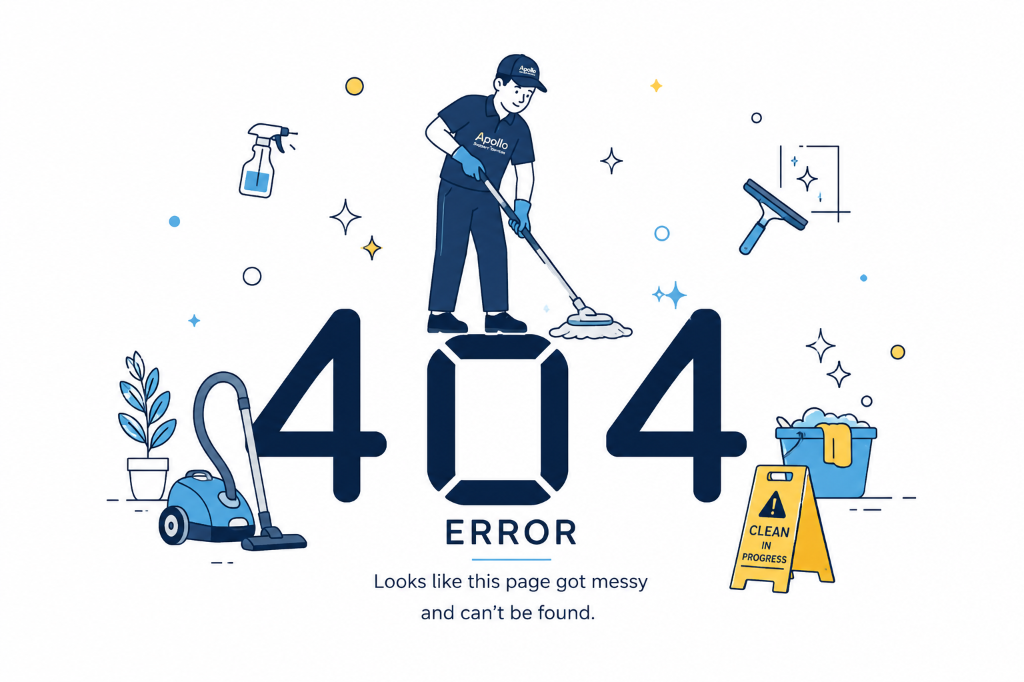
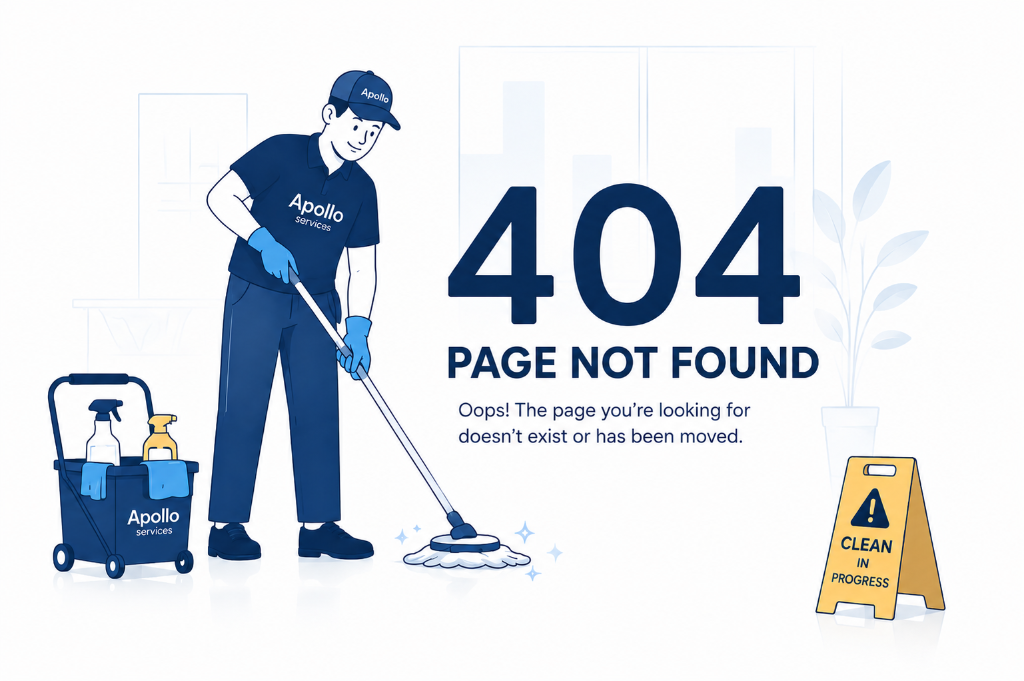
Update 404 page and error image

diff --git a/404.html b/404.html
@@ -77,7 +77,7 @@
     /* ── Content Layout ── */
     .content-box {
       margin: auto;
-      max-width: 800px;
+      max-width: 960px;
       padding: 40px 24px 60px;
       text-align: center;
       position: relative;
@@ -91,7 +91,7 @@
     /* Reference Vector Image style */
     .illustration-wrapper {
       width: 100%;
-      max-width: 650px;
+      max-width: 680px;
       margin-bottom: 20px;
       display: flex;
       justify-content: center;
@@ -118,6 +118,74 @@
       border: 0;
     }
 
+    /* Services Section Header */
+    .services-title {
+      font-size: 14px;
+      font-weight: 700;
+      color: #636363;
+      text-transform: uppercase;
+      letter-spacing: 1.5px;
+      margin-top: 20px;
+      margin-bottom: 10px;
+      animation: fadeInUp 0.8s ease-out 0.1s both;
+    }
+
+    /* Services Bar Layout */
+    .services-bar {
+      display: flex;
+      background: #f8fafd;
+      border: 1px solid #e8e8e8;
+      border-radius: 6px;
+      width: 100%;
+      max-width: 900px;
+      margin-bottom: 30px;
+      overflow: hidden;
+      box-shadow: 0 4px 16px rgba(27, 62, 107, 0.04);
+      animation: fadeInUp 0.8s ease-out 0.2s both;
+    }
+    .service-item {
+      flex: 1;
+      display: flex;
+      align-items: center;
+      justify-content: center;
+      gap: 10px;
+      padding: 16px 14px;
+      text-decoration: none;
+      color: #1a1a1a;
+      transition: all 0.2s ease;
+      border-right: 1px solid #e8e8e8;
+    }
+    .service-item:last-child {
+      border-right: none;
+    }
+    .service-item:hover {
+      background: #ffffff;
+      color: #1B3E6B;
+      box-shadow: inset 0 -3px 0 #1B3E6B;
+    }
+    .service-icon {
+      font-size: 16px;
+      color: #1B3E6B;
+      transition: transform 0.2s ease;
+    }
+    .service-item:hover .service-icon {
+      transform: scale(1.1);
+    }
+    .service-name {
+      font-size: 12.5px;
+      font-weight: 600;
+      text-align: left;
+      line-height: 1.25;
+    }
+
+    /* Actions Layout */
+    .buttons-group {
+      display: flex;
+      gap: 16px;
+      justify-content: center;
+      width: 100%;
+      animation: fadeInUp 0.8s ease-out 0.3s both;
+    }
     .action-btn {
       display: inline-flex;
       align-items: center;
@@ -133,7 +201,6 @@
       border-radius: 0;
       transition: background 0.2s, transform 0.2s;
       box-shadow: 0 4px 12px rgba(27, 62, 107, 0.15);
-      animation: fadeInUp 0.8s ease-out 0.2s both;
     }
     .action-btn:hover {
       background: #000000;
@@ -145,6 +212,28 @@
     }
     .action-btn:hover i {
       transform: translateX(-3px);
+    }
+
+    .btn-secondary {
+      display: inline-flex;
+      align-items: center;
+      gap: 8px;
+      text-decoration: none;
+      height: 46px;
+      padding: 0 28px;
+      background: #ffffff;
+      color: #1B3E6B;
+      border: 2px solid #1B3E6B;
+      font-size: 14px;
+      font-weight: 600;
+      letter-spacing: 0.5px;
+      border-radius: 0;
+      transition: all 0.2s;
+    }
+    .btn-secondary:hover {
+      background: #c9e0fc;
+      border-color: #1B3E6B;
+      color: #1B3E6B;
     }
 
     /* ── Squeegee Wipe Effect ── */
@@ -178,10 +267,46 @@
     }
 
     /* ── Responsive ── */
+    @media (max-width: 991px) {
+      .services-bar {
+        flex-wrap: wrap;
+      }
+      .service-item {
+        flex: 0 0 50%;
+        border-bottom: 1px solid #e8e8e8;
+      }
+      .service-item:nth-child(even) {
+        border-right: none;
+      }
+      .service-item:nth-last-child(-n+2) {
+        border-bottom: none;
+      }
+    }
     @media (max-width: 768px) {
       .util-strip .hours { display: none; }
       .nav-links { display: none; }
       .illustration-wrapper { max-width: 100%; }
+    }
+    @media (max-width: 576px) {
+      .services-bar {
+        flex-direction: column;
+      }
+      .service-item {
+        flex: 0 0 100%;
+        border-right: none !important;
+        border-bottom: 1px solid #e8e8e8;
+      }
+      .service-item:last-child {
+        border-bottom: none;
+      }
+      .buttons-group {
+        flex-direction: column;
+        gap: 12px;
+      }
+      .action-btn, .btn-secondary {
+        width: 100%;
+        justify-content: center;
+      }
     }
   </style>
 </head>
@@ -227,10 +352,44 @@
         <img src="404-error.png" alt="404 Error: Looks like this page got messy and can't be found.">
       </div>
 
-      <!-- Action Button with transition wipe -->
-      <a href="#" class="action-btn" id="goHomeBtn">
-        <i class="fa-solid fa-arrow-left"></i> Go Back Home
-      </a>
+      <!-- Explore services bar -->
+      <h2 class="services-title">Explore Our Services</h2>
+      <div class="services-bar">
+        <a href="services.html#office" class="service-item">
+          <i class="fa-solid fa-building service-icon"></i>
+          <span class="service-name">Office Cleaning</span>
+        </a>
+        <a href="services.html#residential" class="service-item">
+          <i class="fa-solid fa-house service-icon"></i>
+          <span class="service-name">Residential Cleaning</span>
+        </a>
+        <a href="services.html#deep" class="service-item">
+          <i class="fa-solid fa-spray-can service-icon"></i>
+          <span class="service-name">Deep Cleaning</span>
+        </a>
+        <a href="services.html#glass" class="service-item">
+          <i class="fa-solid fa-hands-bubbles service-icon"></i>
+          <span class="service-name">Glass Cleaning</span>
+        </a>
+        <a href="services.html#housekeeping" class="service-item">
+          <i class="fa-solid fa-broom service-icon"></i>
+          <span class="service-name">Housekeeping</span>
+        </a>
+        <a href="services.html#facility" class="service-item">
+          <i class="fa-solid fa-gears service-icon"></i>
+          <span class="service-name">Facility Management</span>
+        </a>
+      </div>
+
+      <!-- Action Buttons -->
+      <div class="buttons-group">
+        <a href="#" class="action-btn" id="goHomeBtn">
+          <i class="fa-solid fa-arrow-left"></i> Go Back Home
+        </a>
+        <a href="contact.html" class="btn-secondary">
+          Book a Service <i class="fa-solid fa-calendar-days"></i>
+        </a>
+      </div>
     </div>
   </div>
 